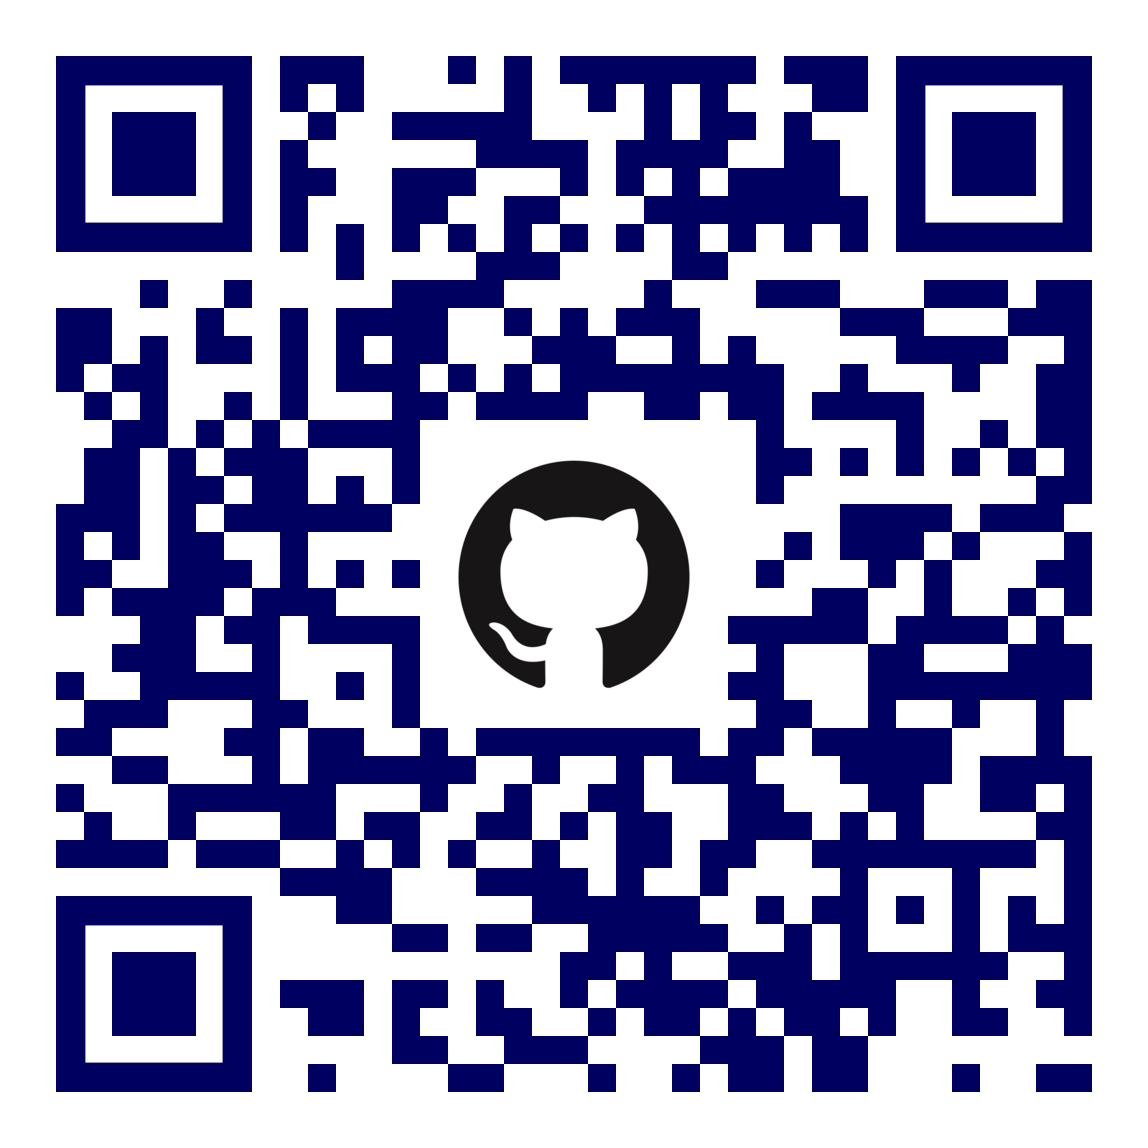
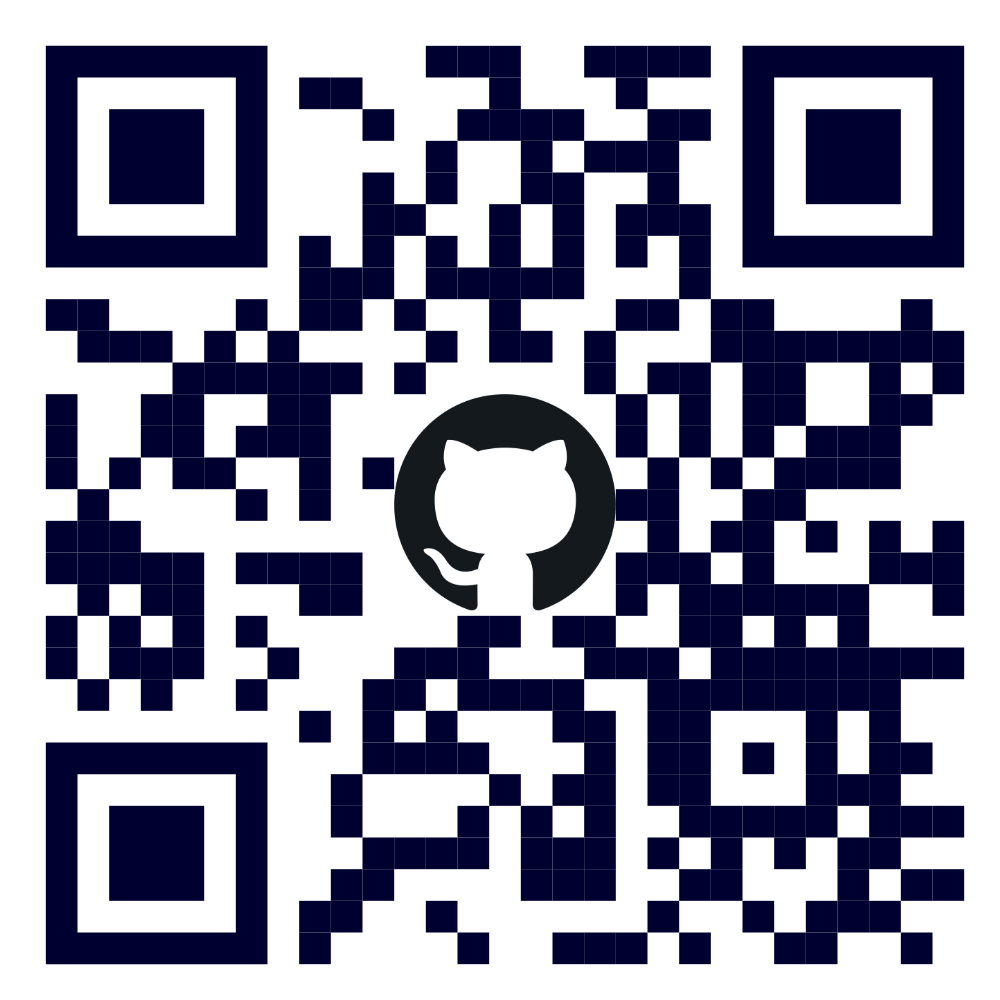
chore: note per il qr code che ora punto al repo GitHub

diff --git a/style.css b/style.css
@@ -171,19 +171,6 @@ ul.contact {
   margin-bottom: .2cm;
 }
 
-.qrcode {
-  margin: auto;
-  display: block;
-}
-
-.qrcode>img {
-  max-width: 90%;
-  margin: auto;
-  display: block;
-  margin-top: .2cm;
-  margin-bottom: .2cm;
-}
-
 .footer {
   height: 1cm;
   background-color: #4164c7;
@@ -210,6 +197,24 @@ td {
   font-size: 12px
 }
 
-version {
-  text-align: center;
+.qrcode {
+  margin: auto;
+  display: block;
 }
+
+.qrcode>img {
+  max-width: 90%;
+  margin: auto;
+  display: block;
+  margin-top: .2cm;
+  margin-bottom: .2cm;
+}
+
+.version {
+  font-size: 9pt;
+}
+
+.version .paragraph {
+  margin-top: .1cm;
+}
+

diff --git a/CHANGELOG.md b/CHANGELOG.md
@@ -7,6 +7,10 @@ e il progetto si conforma al [Versionamento semantico](https://semver.org/spec/v
 
 ## [Non rilasciato]
 
+### Modificato
+
+- note per il qr code che ora punto al repo GitHub
+
 ## [1.1.0] - 2025-03-06
 
 ### Aggiunto
